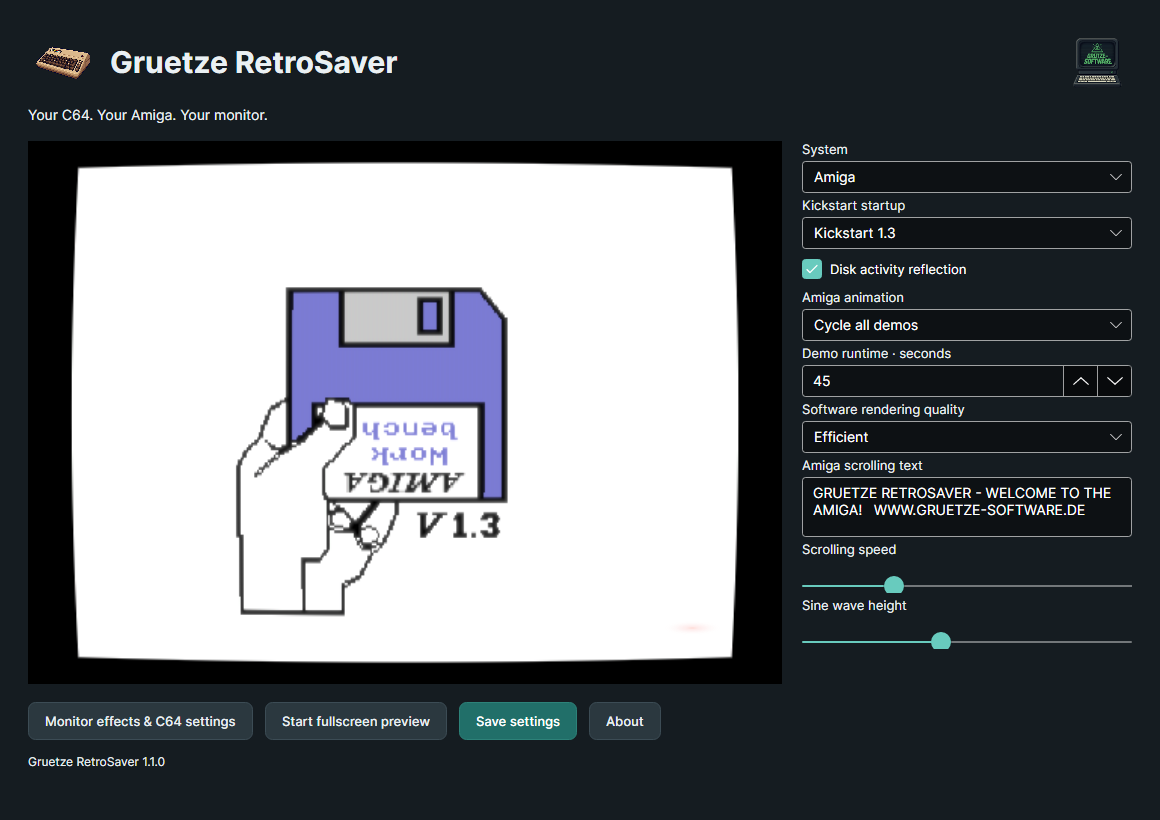
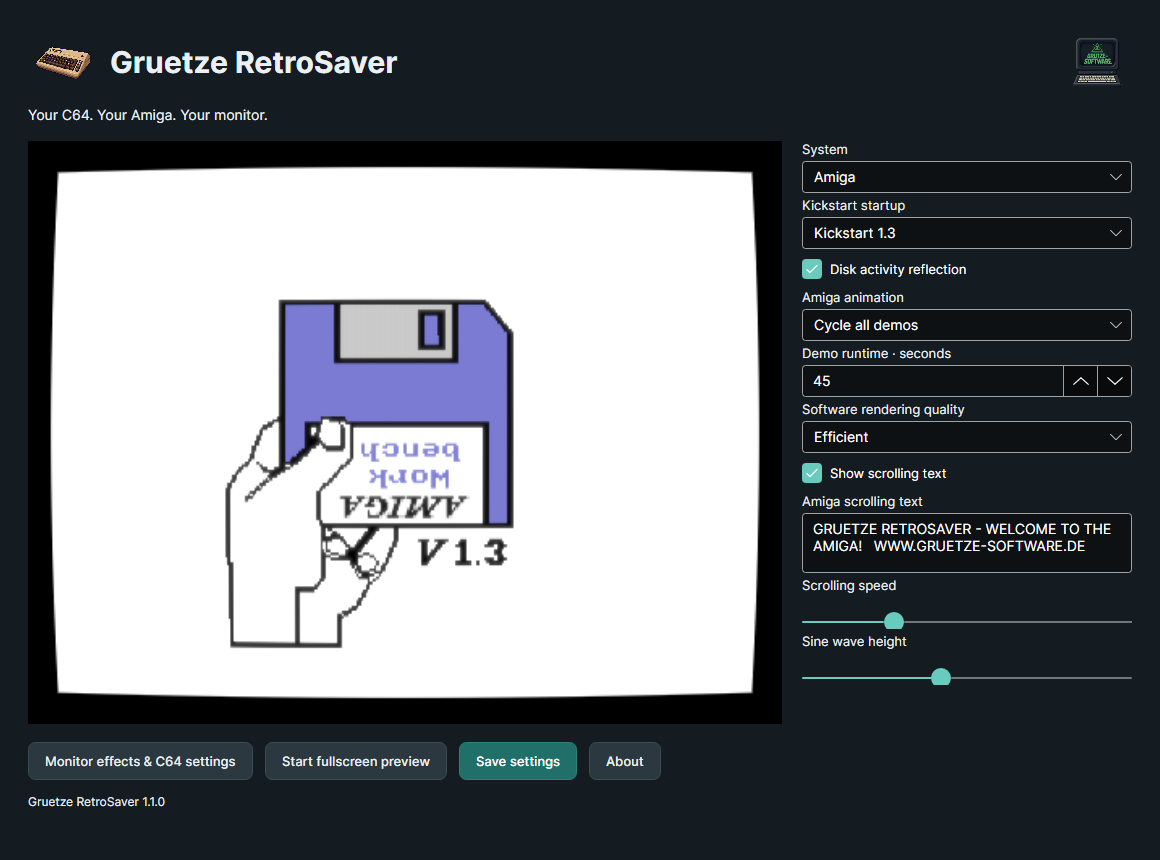
Add second runner parallax layer and optional Amiga scroller

diff --git a/C64Screensaver/CompanionWindow.cs b/C64Screensaver/CompanionWindow.cs
@@ -23,10 +23,11 @@ public sealed class CompanionWindow : Window
         Classes.Add("dialog");
         using (var iconStream = Avalonia.Platform.AssetLoader.Open(new Uri("avares://C64Screensaver/Assets/app-icon.ico")))
             Icon = new WindowIcon(iconStream);
-        Width = 1160; Height = 820; MinWidth = 880; MinHeight = 620;
+        Width = 1160; Height = 860; MinWidth = 880; MinHeight = 620;
         WindowStartupLocation = WindowStartupLocation.CenterScreen;
         var system = new ComboBox { ItemsSource = new[] { "Commodore 64", "Amiga" }, SelectedIndex = config.Settings.AmigaMode ? 1 : 0 };
         var text = new TextBox { Text = config.Settings.ScrollerText, AcceptsReturn = true, TextWrapping = TextWrapping.Wrap, MaxLength = 4096, MinHeight = 60 };
+        var showScroller = new CheckBox { Name = "ShowScroller", Content = "Show scrolling text", IsChecked = config.Settings.ShowAmigaScroller, FontSize = 13 };
         var speed = new Slider { Height = 32, Minimum = 8, Maximum = 160, Value = config.Settings.ScrollerSpeed };
         var wave = new Slider { Height = 32, Minimum = 0, Maximum = 48, Value = config.Settings.ScrollerWave };
         var boot = new ComboBox { Name = "AmigaBoot", ItemsSource = new[] { "Skip startup", "Kickstart 1.3", "Kickstart 2.0", "Kickstart 3.1" }, SelectedIndex = (int)config.Settings.AmigaBoot };
@@ -76,6 +77,7 @@ public sealed class CompanionWindow : Window
         Field("Amiga animation", demo);
         Field("Demo runtime · seconds", duration);
         Field("Software rendering quality", quality);
+        editor.Children.Add(showScroller);
         Field("Amiga scrolling text", text);
         Field("Scrolling speed", speed);
         Field("Sine wave height", wave);
@@ -97,7 +99,8 @@ public sealed class CompanionWindow : Window
         Content = body;
         void UpdateAvailability()
         {
-            text.IsEnabled = speed.IsEnabled = wave.IsEnabled = boot.IsEnabled = demo.IsEnabled = duration.IsEnabled = activity.IsEnabled = config.Settings.AmigaMode;
+            showScroller.IsEnabled = boot.IsEnabled = demo.IsEnabled = duration.IsEnabled = activity.IsEnabled = config.Settings.AmigaMode;
+            text.IsEnabled = speed.IsEnabled = wave.IsEnabled = config.Settings.AmigaMode && showScroller.IsChecked == true;
             activity.IsEnabled = config.Settings.AmigaMode && config.Settings.AmigaBoot != AmigaBootStyle.None;
         }
         void Restart()
@@ -112,6 +115,7 @@ public sealed class CompanionWindow : Window
         demo.SelectionChanged += (_, _) => { config.Settings.AmigaAnimation = (AmigaDemo)Math.Max(0, demo.SelectedIndex); Restart(); };
         quality.SelectionChanged += (_, _) => { config.Settings.NativeRenderQuality = Math.Max(0, quality.SelectedIndex); scene.InvalidateVisual(); };
         duration.PropertyChanged += (_, e) => { if (e.Property.Name == nameof(NumericUpDown.Value)) { config.Settings.AmigaDurationSeconds = (int)(duration.Value ?? 45); Restart(); } };
+        showScroller.IsCheckedChanged += (_, _) => { config.Settings.ShowAmigaScroller = showScroller.IsChecked == true; UpdateAvailability(); scene.InvalidateVisual(); };
         text.TextChanged += (_, _) => { config.Settings.ScrollerText = text.Text ?? ""; config.Settings.Validate(); scene.InvalidateVisual(); };
         speed.PropertyChanged += (_, e) => { if (e.Property.Name == nameof(Slider.Value)) config.Settings.ScrollerSpeed = speed.Value; };
         wave.PropertyChanged += (_, e) => { if (e.Property.Name == nameof(Slider.Value)) config.Settings.ScrollerWave = wave.Value; };
@@ -123,6 +127,7 @@ public sealed class CompanionWindow : Window
             config.Settings.AmigaAnimation = (AmigaDemo)Math.Max(0, demo.SelectedIndex);
             config.Settings.AmigaDurationSeconds = (int)(duration.Value ?? 45);
             config.Settings.NativeRenderQuality = Math.Max(0, quality.SelectedIndex);
+            config.Settings.ShowAmigaScroller = showScroller.IsChecked == true;
             config.Settings.ScrollerText = text.Text ?? "";
             config.Settings.ScrollerSpeed = speed.Value;
             config.Settings.ScrollerWave = wave.Value;

diff --git a/C64Screensaver/AmigaRunner.cs b/C64Screensaver/AmigaRunner.cs
@@ -23,7 +23,7 @@ public sealed class AmigaRunner
     public int Crystals { get; private set; }
     public int Respawns { get; private set; }
 
-    public AmigaRunner() { _ = RunnerArtwork.Sprites.Value; _ = RunnerArtwork.Panorama.Value; _ = Terrain.Value; _ = RunnerArtwork.Crystals.Value; }
+    public AmigaRunner() { _ = RunnerArtwork.Sprites.Value; _ = RunnerArtwork.Panorama.Value; _ = RunnerArtwork.Midground.Value; _ = Terrain.Value; _ = RunnerArtwork.Crystals.Value; }
     public static double? GroundAt(double x)
     {
         double local = (x % Period + Period) % Period;
@@ -89,17 +89,10 @@ public sealed class AmigaRunner
         AdvanceTo(time);
         double camera = WorldX - 96;
         paint.Color = SKColors.White;
-        double backgroundScroll = camera * .18;
-        int firstBackground = (int)Math.Floor(backgroundScroll / 768);
-        for (int i = firstBackground; i <= firstBackground + 1; i++)
-        {
-            int saved = canvas.Save();
-            canvas.Translate((float)(i * 768 - backgroundScroll), 0);
-            // Mirrored joins keep the panorama continuous without a hard seam.
-            if ((i & 1) != 0) { canvas.Translate(768, 0); canvas.Scale(-1, 1); }
-            canvas.DrawImage(RunnerArtwork.Panorama.Value, new SKRect(0, 0, 768, 288), Nearest, paint);
-            canvas.RestoreToCount(saved);
-        }
+        DrawLayer(canvas, RunnerArtwork.Panorama.Value, camera * .18, paint);
+        paint.Color = SKColors.White.WithAlpha(220);
+        DrawLayer(canvas, RunnerArtwork.Midground.Value, camera * .46, paint);
+        paint.Color = SKColors.White;
         int firstCycle = (int)Math.Floor(camera / Period);
         for (int cycle = firstCycle; cycle <= firstCycle + 1; cycle++)
         for (int index = 0; index < Platforms.Length; index++)
@@ -126,6 +119,18 @@ public sealed class AmigaRunner
         paint.Color = SKColors.White;
         int frame = Grounded ? (int)(time * 12) % 6 : velocity < 0 ? 6 : 7;
         canvas.DrawImage(RunnerArtwork.Sprites.Value[frame], new SKRect(76, (float)FootY - 44, 116, (float)FootY), Nearest, paint);
+    }
+    private static void DrawLayer(SKCanvas canvas, SKImage image, double scroll, SKPaint paint)
+    {
+        int first = (int)Math.Floor(scroll / 768);
+        for (int i = first; i <= first + 1; i++)
+        {
+            int saved = canvas.Save();
+            canvas.Translate((float)(i * 768 - scroll), 0);
+            if ((i & 1) != 0) { canvas.Translate(768, 0); canvas.Scale(-1, 1); }
+            canvas.DrawImage(image, new SKRect(0, 0, 768, 288), Nearest, paint);
+            canvas.RestoreToCount(saved);
+        }
     }
     private static SKImage[] CreateTerrain()
     {

diff --git a/tests/Smoke/Program.cs b/tests/Smoke/Program.cs
@@ -515,13 +515,15 @@ controls.OfType<TextBox>().Single(c => c.Name == "ScrollerText").Text = "LONG SC
 controls.OfType<Slider>().Single(c => c.Name == "ScrollerSpeed").Value = 80;
 controls.OfType<ComboBox>().Single(c => c.Name == "AmigaBoot").SelectedIndex = (int)AmigaBootStyle.Purple31;
 controls.OfType<CheckBox>().Single(c => c.Name == "DiskActivity").IsChecked = false;
+controls.OfType<CheckBox>().Single(c => c.Name == "ShowScroller").IsChecked = false;
 controls.OfType<ComboBox>().Single(c => c.Name == "AmigaDemo").SelectedIndex = (int)AmigaDemo.Runner;
 controls.OfType<ComboBox>().Single(c => c.Name == "RenderQuality").SelectedIndex = 1;
 controls.OfType<NumericUpDown>().Single(c => c.Name == "AmigaDuration").Value = 20;
 Dispatcher.UIThread.RunJobs();
 controls.OfType<Button>().Single(c => c.Name == "SaveSettings").RaiseEvent(new Avalonia.Interactivity.RoutedEventArgs(Button.ClickEvent));
+Check(!controls.OfType<TextBox>().Single(c => c.Name == "ScrollerText").IsEnabled, "Hidden scrolling text disables its editor");
 var reloadedCompanion = new ConfigManager(companionConfig.ConfigPath).Settings;
-Check(reloadedCompanion.AmigaMode && reloadedCompanion.ScrollerText.Length > 150 && reloadedCompanion.ScrollerSpeed == 80 && reloadedCompanion.AmigaBoot == AmigaBootStyle.Purple31 && !reloadedCompanion.AmigaDiskActivity && reloadedCompanion.AmigaAnimation == AmigaDemo.Runner && reloadedCompanion.AmigaDurationSeconds == 20 && reloadedCompanion.NativeRenderQuality == 1, "Companion controls persist Amiga selection and long text");
+Check(reloadedCompanion.AmigaMode && !reloadedCompanion.ShowAmigaScroller && reloadedCompanion.ScrollerText.Length > 150 && reloadedCompanion.ScrollerSpeed == 80 && reloadedCompanion.AmigaBoot == AmigaBootStyle.Purple31 && !reloadedCompanion.AmigaDiskActivity && reloadedCompanion.AmigaAnimation == AmigaDemo.Runner && reloadedCompanion.AmigaDurationSeconds == 20 && reloadedCompanion.NativeRenderQuality == 1, "Companion controls persist Amiga selection and long text");
 companion.Close();
 Capture(new CompanionWindow(new ConfigManager(companionConfig.ConfigPath) { Settings = new SaverSettings { AmigaMode = true } }), "retrosaver-companion");
 CaptureScene("amiga-copper-scroller", 180, new SaverSettings { AmigaMode = true, AmigaBoot = AmigaBootStyle.None });

diff --git a/tests/Amiga/Program.cs b/tests/Amiga/Program.cs
@@ -141,3 +141,30 @@ for (int frame = 0; frame <= 360; frame++) thirtyHz.AdvanceTo(frame / 30.0);
 Check(Math.Abs(direct.FootY - thirtyHz.FootY) < .0001 && direct.Crystals == thirtyHz.Crystals,
     "Jump physics is independent of presentation rate");
 Console.WriteLine("PASS: jump-and-run autoplayer, platform collisions, pickups, frame-rate independence and replay.");
+
+var textToggle = new SaverSettings { AmigaMode = true, AmigaBoot = AmigaBootStyle.None,
+    AmigaAnimation = AmigaDemo.Runner, PowerTransition = false };
+using (var toggled = new AmigaFrameBuffer())
+using (var visibleText = toggled.CaptureFrame(textToggle, 3))
+{
+    textToggle.ShowAmigaScroller = false;
+    using var hiddenText = toggled.CaptureFrame(textToggle, 3);
+    Check(Difference(visibleText, hiddenText) > 100, "Scrolling text can be hidden");
+    using var a = SKBitmap.FromImage(visibleText);
+    using var b = SKBitmap.FromImage(hiddenText);
+    for (int y = 0; y < 200; y++)
+    for (int x = 0; x < 384; x++)
+        Check(a.GetPixel(x, y) == b.GetPixel(x, y), "Text toggle preserves the game and background");
+    Save(hiddenText, "demo-Runner-no-text");
+}
+Console.WriteLine("PASS: scrolling-text visibility and unchanged game state.");
+
+using (var layerStream = typeof(SaverSettings).Assembly.GetManifestResourceStream(
+    "GruetzeRetroSaver.Runner.forest-midground-v1.png") ?? throw new Exception("Missing second background"))
+using (var layer = SKBitmap.Decode(layerStream))
+{
+    var pixels = layer.Pixels;
+    Check(pixels.Count(p => p.Alpha < 16) > pixels.Length / 3, "Middle background leaves transparent views of distant scenery");
+    Check(pixels.Count(p => p.Alpha > 180) > pixels.Length / 20, "Middle background contains visible artwork");
+}
+Console.WriteLine("PASS: separately embedded transparent parallax artwork.");

diff --git a/C64Screensaver/AmigaFrameBuffer.cs b/C64Screensaver/AmigaFrameBuffer.cs
@@ -95,7 +95,7 @@ public sealed class AmigaFrameBuffer : IDisposable
             }
             double scrollTime = Math.Floor(time / length) * settings.AmigaDurationSeconds
                 + (revealNext ? settings.AmigaDurationSeconds : Math.Clamp(phase - boot, 0, settings.AmigaDurationSeconds));
-            DrawScroller(canvas, settings, scrollTime, demo == AmigaDemo.Copper ? 135 : Math.Min(226, 261 - (float)settings.ScrollerWave));
+            if (settings.ShowAmigaScroller) DrawScroller(canvas, settings, scrollTime, demo == AmigaDemo.Copper ? 135 : Math.Min(226, 261 - (float)settings.ScrollerWave));
         }
         return surface.Snapshot();
     }

diff --git a/C64Screensaver/SettingsWindow.axaml.cs b/C64Screensaver/SettingsWindow.axaml.cs
@@ -26,6 +26,7 @@ public partial class SettingsWindow : Window
         previewSettings.AmigaAnimation = config.Settings.AmigaAnimation;
         previewSettings.AmigaDurationSeconds = config.Settings.AmigaDurationSeconds;
         previewSettings.NativeRenderQuality = config.Settings.NativeRenderQuality;
+        previewSettings.ShowAmigaScroller = config.Settings.ShowAmigaScroller;
         previewSettings.ScrollerText = config.Settings.ScrollerText;
         previewSettings.ScrollerSpeed = config.Settings.ScrollerSpeed;
         previewSettings.ScrollerWave = config.Settings.ScrollerWave;

diff --git a/C64Screensaver/RunnerArtwork.cs b/C64Screensaver/RunnerArtwork.cs
@@ -7,6 +7,7 @@ internal static class RunnerArtwork
 {
     private static readonly SKSamplingOptions Nearest = new(SKFilterMode.Nearest);
     internal static readonly Lazy<SKImage> Panorama = new(() => Resize("forest-v2", 768, 256));
+    internal static readonly Lazy<SKImage> Midground = new(() => Resize("forest-midground-v1", 768, 256));
     internal static readonly Lazy<SKImage[]> Sprites = new(CreateSprites);
     private static readonly Lazy<SKImage[]> Tiles = new(CreateTiles);
     internal static readonly Lazy<SKImage[]> Crystals = new(CreateCrystals);

diff --git a/C64Screensaver/SaverSettings.cs b/C64Screensaver/SaverSettings.cs
@@ -15,6 +15,7 @@ public class SaverSettings
     public int AmigaDurationSeconds { get; set; } = 45;
     public int NativeRenderQuality { get; set; }
     public bool AmigaMode { get; set; }
+    public bool ShowAmigaScroller { get; set; } = true;
     public string ScrollerText { get; set; } = "GRUETZE RETROSAVER - WELCOME TO THE AMIGA!   WWW.GRUETZE-SOFTWARE.DE";
     public double ScrollerSpeed { get; set; } = 48;
     public double ScrollerWave { get; set; } = 20;

diff --git a/C64Screensaver/Assets/Runner/ARTWORK-PROMPTS.md b/C64Screensaver/Assets/Runner/ARTWORK-PROMPTS.md
@@ -18,3 +18,9 @@ Use case: stylized-concept. Asset type: production transparent animation sprite 
 
 ## Transparency cleanup prompt
 Edit the supplied sprite sheet ONLY to clean its transparency. Preserve the eight character poses, their clothing, pixel art, colors, arrangement, cell centers and 4-column/2-row layout exactly. Remove ALL brown, red, orange or black background haze, glows and drop shadows between and around the characters. Background must be completely transparent alpha=0 everywhere outside each character's crisp pixel silhouette. The character pixels must be solid opaque, no fading outer glow. Keep the red scarf as part of each character. Do not add a checkerboard, backdrop, outlines, labels or text. This is a game sprite sheet, so require sharp cutout edges and clean transparent space between frames. Preserve existing image dimensions.
+
+## Middle-distance parallax layer
+File: forest-midground-v1.png
+Created with the built-in Imagegen tool, using forest-v2.png as the style reference.
+
+Use case: stylized-concept. Asset type: a SEPARATE transparent middle-distance parallax background layer for the attached Amiga-style pixel-art platform game woodland background. The attached image is STYLE AND PALETTE REFERENCE ONLY; do not reproduce the complete opaque scenery. Create a wide horizontal 3:1 landscape layer of scattered blue-teal woodland tree trunks, soft layered foliage, dangling vines and small fern silhouettes, matching the reference's crisp hand-pixelled early-1990s Amiga game look. Real transparent background; absolutely NO sky, mountains, ground, floor, platforms, characters, text, frame or checkerboard. This layer will be composited over the existing sunset valley and must leave at least 65 percent of the image transparent so the mountains and sky remain visible. Top third mostly empty transparent. Place a few medium-sized irregular tree groups in the lower two thirds with broad transparent gaps between them; avoid a full continuous forest wall. Cool blue-green and muted violet shadows, restrained highlights, reduced contrast because this is behind the player. Deliberate pixel clusters and subtle dithering, no smooth blur, no painted background haze or opaque backdrop. Let the left and right edges have compatible tree silhouettes so horizontal mirrored tiling is unobtrusive. Original complementary scenery, not a screenshot of an existing game.

diff --git a/README.md b/README.md
@@ -1,9 +1,9 @@
 # Gruetze RetroSaver
 
 Development branch: the new .NET 10 / Avalonia 12 companion opens on normal launch
-(or with --companion / --settings). It offers C64 BASIC, Amiga Copper bars, Boing ball, starflight/wireframe, plasma and an autoplay jump-and-run scene with shaded rock tiles, a woodland panorama and an eight-pose character,
+(or with --companion / --settings). It offers C64 BASIC, Amiga Copper bars, Boing ball, starflight/wireframe, plasma and an autoplay jump-and-run scene with shaded rock tiles, two independently scrolling woodland layers and an eight-pose character,
 a live preview and editable scrolling text,
-speed and wave height. Choose the historical Kickstart 1.3, 2.0 or 3.1 startup screen, or skip startup. Cycle all demos or repeat one with
+speed and wave height. The Amiga scrolling text can be switched on or off. Choose the historical Kickstart 1.3, 2.0 or 3.1 startup screen, or skip startup. Cycle all demos or repeat one with
 configurable runtime and CRT power transitions. An optional soft red disk-activity
 reflection pulses on the glass during Kickstart startup. The demos are procedurally drawn; the startup screens use historical captures
 with their original artwork and animation. No Kickstart ROM is loaded.

diff --git a/macos/PERFORMANCE.md b/macos/PERFORMANCE.md
@@ -100,3 +100,11 @@ Per-frame work is a few cached image draws plus the existing fixed-step physics.
 Local measured source rendering is about 0.40 ms/frame with 104 managed bytes
 per frame, excluding CRT effects. The three-minute autoplay/30-vs-60-Hz tests
 continue to pass. These are local measurements, not a Neo performance claim.
+
+## Second parallax layer and text visibility
+
+A second transparent 768×256 woodland texture is cached once. Far scenery moves
+at 0.18 of camera speed, middle woodland at 0.46, and terrain at full speed.
+Both backgrounds use mirrored joins. Local source rendering with both layers
+and scrolling text measured about 0.51 ms/frame, excluding CRT.
+Disabling the scroller skips its draw calls entirely; text and speed are preserved.

diff --git a/CHANGELOG.md b/CHANGELOG.md
@@ -1,5 +1,9 @@
 # Gruetze RetroSaver development
 
+- Add a separately scrolling transparent woodland layer for stronger parallax depth.
+- Add a saved Show scrolling text option for Amiga demos with instant preview;
+  hidden text retains its content and settings.
+
 - Rework jump-and-run art with project-owned generated pixel assets: layered
   woodland panorama, shaded mossy rock platforms, six running/two jumping poses
   and faceted collectible crystals. Textures are prepared once at game resolution.
